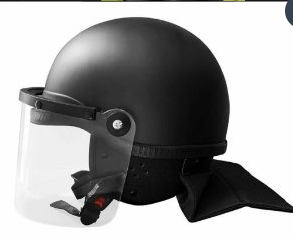
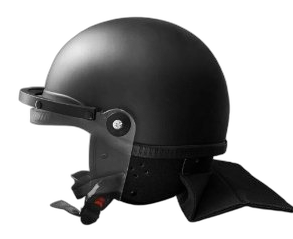
Process Delhi Police helmets: remove backgrounds and apply premium CSS gloss/studio effects

diff --git a/index.html b/index.html
@@ -327,7 +327,7 @@
                         <div class="carousel-track">
                             <img src="delhi-riot-front.png" alt="Delhi Police Riot Front" class="carousel-slide" onerror="this.style.display='none'">
                             <img src="delhi-riot-left.png" alt="Delhi Police Riot Left" class="carousel-slide" onerror="this.style.display='none'">
-                            <img src="delhi-riot-right.jpg" alt="Delhi Police Riot Right" class="carousel-slide" onerror="this.style.display='none'">
+                            <img src="delhi-riot-right.png" alt="Delhi Police Riot Right" class="carousel-slide" onerror="this.style.display='none'">
                         </div>
                         <div class="carousel-dots">
                             <span class="dot active"></span>

diff --git a/style.css b/style.css
@@ -887,6 +887,12 @@ img[src*="safety-helmet-pro"] {
     -webkit-mask-image: linear-gradient(to bottom, rgba(0,0,0,1) 85%, rgba(0,0,0,0) 100%);
     mask-image: linear-gradient(to bottom, rgba(0,0,0,1) 85%, rgba(0,0,0,0) 100%);
 }
+
+/* Premium styling for Delhi Police helmet - enhanced gloss and studio ground shadow */
+img[src*="delhi-riot"] {
+    filter: contrast(1.15) brightness(1.08) drop-shadow(0 25px 20px rgba(0,0,0,0.2)) drop-shadow(0 5px 10px rgba(0,0,0,0.1));
+    transform: scale(1.02);
+}
 .carousel-dots {
     position: absolute;
     bottom: var(--spacing-sm);

diff --git a/public/script.js b/public/script.js
@@ -202,7 +202,7 @@ const products = {
     'helmet4': {
         title: 'Delhi Police Riot Helmet',
         price: 'Rs 550',
-        images: ['delhi-riot-front.png', 'delhi-riot-left.png', 'delhi-riot-right.jpg'],
+        images: ['delhi-riot-front.png', 'delhi-riot-left.png', 'delhi-riot-right.png'],
         specs: {
             'Material': 'Polycarbonate (PC) & ABS',
             'Color': 'Black / Custom',
